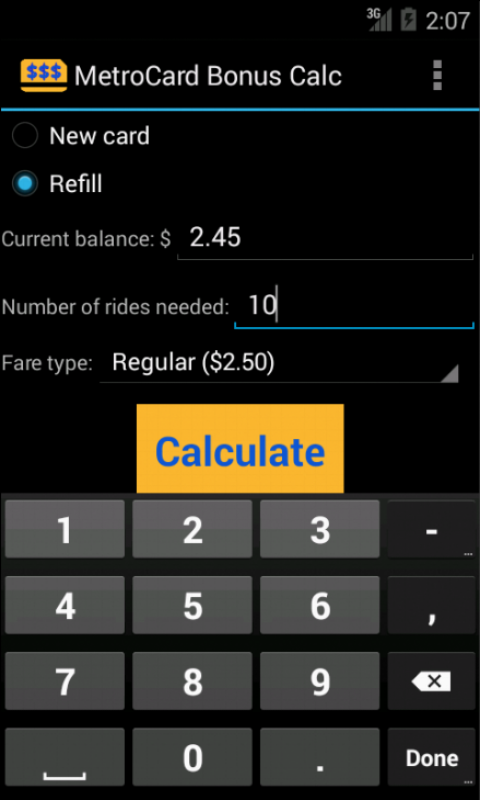
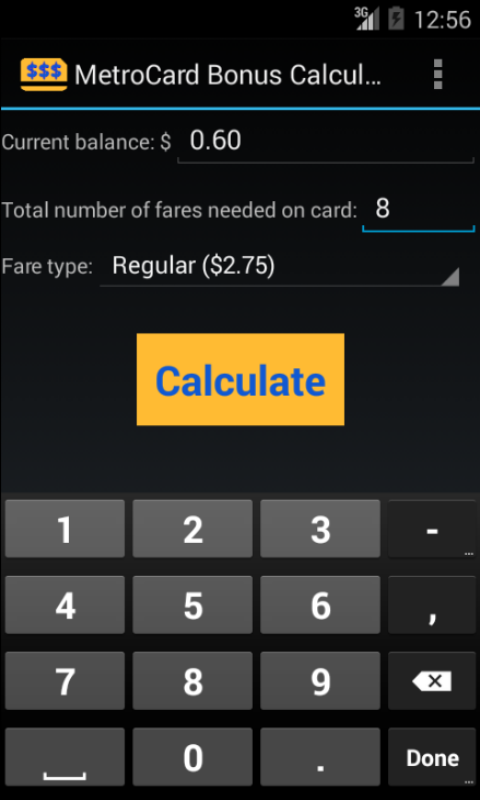
Updated

diff --git a/src/com/example/metrocard_bonus_calc/MainActivity.java b/src/com/example/metrocard_bonus_calc/MainActivity.java
@@ -9,10 +9,7 @@ import android.preference.PreferenceManager;
 import android.text.InputFilter;
 import android.view.View;
 import android.widget.ArrayAdapter;
-import android.widget.RadioGroup.OnCheckedChangeListener;
 import android.widget.EditText;
-import android.widget.LinearLayout;
-import android.widget.RadioGroup;
 import android.widget.Spinner;
 import android.widget.Toast;
 
@@ -26,71 +23,60 @@ import java.math.BigInteger;
 import java.text.DecimalFormat;
 
 public class MainActivity extends SherlockActivity {
-    public static final String PREFERENCES = "preferences";
+    private static final String PREFERENCES = "preferences";
     
     private static final String USD_FORMAT = "#,##0.00";
     
-    /* Fare drop-down menu positions. */
-    private static final int REGULAR = 0;
-    private static final int REDUCED = 1;
-    private static final int EXP_BUS = 2;
-    private static final int EXP_BUS_REDUCED = 3;
+    private static final String[] keys = { 
+        "regular",
+        "reduced",
+        "expressBus",
+        "expressBusReduced"
+    };
+    
+    private static final int[] nameIds = {
+        R.string.regular,
+        R.string.reduced,
+        R.string.express_bus,
+        R.string.express_bus_reduced
+    };
+    
+    private static final int[] defaultIds = {
+        R.string.default_regular,
+        R.string.default_reduced,
+        R.string.default_express_bus,
+        R.string.default_express_bus_reduced
+    };
     
     private SharedPreferences prefs;
     private SharedPreferences defaultPrefs;
     private Editor defaultEditor;
     private Editor prefsEditor;
-    private LinearLayout layoutBalance;
     private EditText editBalance;
     private EditText editRides;
     private Spinner fareSpinner;
+    private BigDecimal[] fares;
     private BigDecimal bonusPercentage;
     private BigDecimal bonusMin;
     private BigDecimal increment;
-    private BigDecimal regular;
-    private BigDecimal reduced;
-    private BigDecimal expressBus;
-    private BigDecimal expressBusReduced;
-    private BigDecimal newCardFee;
-    private boolean newCard;
 
     @Override
     protected void onCreate(Bundle savedInstanceState) {
         super.onCreate(savedInstanceState);
         setContentView(R.layout.main);
+        
+        fares = new BigDecimal[keys.length];
 
-        layoutBalance = (LinearLayout)findViewById(R.id.current_balance_layout);
         editBalance = (EditText)findViewById(R.id.edit_balance);
         editBalance.setFilters(new InputFilter[]{ new DecimalInputFilter(2) });
         editRides = (EditText)findViewById(R.id.edit_rides);
         fareSpinner = (Spinner)findViewById(R.id.fare_spinner);
+        
         defaultPrefs = PreferenceManager.getDefaultSharedPreferences(this);
         prefs = getSharedPreferences(PREFERENCES, MODE_PRIVATE);
         defaultEditor = defaultPrefs.edit();
         prefsEditor = prefs.edit();
-
-        RadioGroup cardTypeRadGroup = (RadioGroup)findViewById(R.id.radio_group_card_type);
-        cardTypeRadGroup.setOnCheckedChangeListener(new OnCheckedChangeListener() {
-            @Override
-            public void onCheckedChanged(RadioGroup group, int checkedId) {
-                /* 
-                 * Hides the current balance section of the layout if the user
-                 * is buying a new card.
-                 */ 
-                switch (checkedId) {
-                case R.id.radio_new_card:
-                    layoutBalance.setVisibility(View.GONE);
-                    newCard = true;
-                    break;
-                case R.id.radio_existing_card:
-                    layoutBalance.setVisibility(View.VISIBLE);
-                    editBalance.requestFocus();
-                    newCard = false;
-                    break;
-                }
-            }
-        });
-
+        
         /* 
          * Checks if the app has been updated. If so, the fare data is reset.
          * Note: The first run counts as an update.
@@ -141,13 +127,11 @@ public class MainActivity extends SherlockActivity {
     
     /** Called when the "calculate" button is pressed. */
     public void compute(View view) {
-        BigDecimal balance = BigDecimal.ZERO;
-        BigInteger rides = null;
+        BigDecimal balance;
+        BigInteger rides;
         try {
-            if (!newCard) {
-                String balanceStr = editBalance.getText().toString();
-                balance = new BigDecimal(balanceStr);
-            }
+            String balanceStr = editBalance.getText().toString();
+            balance = new BigDecimal(balanceStr);
             String ridesStr = editRides.getText().toString();
             rides = new BigInteger(ridesStr);
         } catch (NumberFormatException e) { // Thrown when a field is blank.
@@ -156,42 +140,38 @@ public class MainActivity extends SherlockActivity {
             return;
         }
 
-        MetrocardCalculator calc =
-                new MetrocardCalculator(bonusMin, bonusPercentage, increment);
-        
-        BigDecimal payment = calc.computePayment(getSelectedFare(), balance, rides);
+        MetrocardCalculator calc = new MetrocardCalculator(bonusMin, bonusPercentage, increment);
+
+        int fareId = fareSpinner.getSelectedItemPosition();
+        BigDecimal fare = fares[fareId];
+        BigDecimal payment = calc.computePayment(fare, balance, rides);
         BigDecimal bonus = calc.computeBonus(payment);
         BigDecimal newBalance = balance.add(payment).add(bonus);
+        BigDecimal[] div = newBalance.divideAndRemainder(fare);
+        BigInteger ridesOnCard = div[0].toBigInteger();
+        BigDecimal remainder = div[1];
         
-        if (newCard) {
-            /* If a new card is being purchased, a fee is applied. */
-            payment = payment.add(newCardFee);
-        }
-        
-        resultDialog(formatResult(payment, newBalance, bonus));
+        resultDialog(formatResult(ridesOnCard, payment, newBalance, remainder, bonus));
     }
 
     /**
      * Retrieves fares and other data required for calculations.
      * Default values are from data.xml.
      */
-    private void getData() {
-        regular = new BigDecimal(defaultPrefs.getString("regular", 
-                getString(R.string.default_regular)));
-        reduced = new BigDecimal(defaultPrefs.getString("reduced", 
-                getString(R.string.default_reduced)));
-        expressBus = new BigDecimal(defaultPrefs.getString("expressBus", 
-                getString(R.string.default_express_bus)));
-        expressBusReduced = new BigDecimal(defaultPrefs.getString("expressBusReduced", 
-                getString(R.string.default_express_bus_reduced)));
-        bonusPercentage = new BigDecimal(defaultPrefs.getString("bonusPercentage", 
-                getString(R.string.default_bonus_percentage)));
-        bonusMin = new BigDecimal(defaultPrefs.getString("bonusMin", 
-                getString(R.string.default_bonus_min)));
-        increment = new BigDecimal(defaultPrefs.getString("increment", 
-                getString(R.string.default_increment)));
-        newCardFee = new BigDecimal(defaultPrefs.getString("newCardFee", 
-                getString(R.string.default_new_card_fee)));
+    private void getData() {        
+        for (int i = 0; i < fares.length; ++i) {
+            String s = defaultPrefs.getString(keys[i], getString(defaultIds[i]));
+            fares[i] = new BigDecimal(s);
+        }
+        
+        String s1 = defaultPrefs.getString("bonusPercentage", getString(R.string.default_bonus_percentage));
+        bonusPercentage = new BigDecimal(s1);
+        
+        String s2 = defaultPrefs.getString("bonusMin", getString(R.string.default_bonus_min));
+        bonusMin = new BigDecimal(s2);
+        
+        String s3 = defaultPrefs.getString("increment", getString(R.string.default_increment));
+        increment = new BigDecimal(s3);
     }
 
     /** Persists the position of the fare drop-down menu. */
@@ -206,44 +186,51 @@ public class MainActivity extends SherlockActivity {
         int spinnerPosition = prefs.getInt("spinnerPosition", 0);
         fareSpinner.setSelection(spinnerPosition, true);
     }
-
-    /** resId is the ID of the fare descriptor. */
-    private String makeSpinnerEntry(int resId, String cost) {
-        return getString(R.string.spinner_entry, getString(resId), cost);
+    
+    private String makeSpinnerEntry(int fareId) {
+        String cost = fares[fareId].toPlainString();
+        return getString(R.string.spinner_entry, getString(nameIds[fareId]), cost);
     }
     
     /** Fills the fare drop-down menu. Must be called after getData. */
     private void populateSpinner() {
-        String[] opts = new String[4];
-        opts[REGULAR] = makeSpinnerEntry(R.string.regular, regular.toPlainString());
-        opts[REDUCED] = makeSpinnerEntry(R.string.reduced, reduced.toPlainString());  
-        opts[EXP_BUS] = makeSpinnerEntry(R.string.express_bus, expressBus.toPlainString());
-        opts[EXP_BUS_REDUCED] = makeSpinnerEntry(R.string.express_bus_reduced, expressBusReduced.toPlainString());
+        String[] opts = new String[fares.length];
+        for (int i = 0; i < 4; ++i) {
+            opts[i] = makeSpinnerEntry(i);
+        }
         fareSpinner.setAdapter(new ArrayAdapter<String>(this, android.R.layout.simple_spinner_item, opts));
     }
     
-    /** Returns the fare price selected in the fare drop-down menu. */
-    private BigDecimal getSelectedFare() {
-        switch (fareSpinner.getSelectedItemPosition()) {
-        case REGULAR:
-            return regular;
-        case REDUCED:
-            return reduced;
-        case EXP_BUS:
-            return expressBus;
-        case EXP_BUS_REDUCED:
-            return expressBusReduced;
-        default:
-            return null;
-        }
-    }
-    
-    private String formatResult(BigDecimal payment, BigDecimal newBalance, BigDecimal bonus) {
+    private String formatResult(BigInteger rides,
+                                BigDecimal payment,
+                                BigDecimal newBalance,
+                                BigDecimal remainder,
+                                BigDecimal bonus) {
+        
         DecimalFormat df = new DecimalFormat(USD_FORMAT);
+        
+        String lineSeparator = System.getProperty("line.separator");
         String paymentStr = getString(R.string.result_cost, df.format(payment));
-        String newBalanceStr = getString(R.string.result_new_card_info, df.format(newBalance));
+        String fareStr;
+        if (rides.compareTo(BigInteger.ONE) == 0) {
+            fareStr = getString(R.string.fare_singular);
+        } else {
+            fareStr = getString(R.string.fare_plural);
+        }
+        String newBalanceStr = getString(R.string.result_new_balance_info,
+                df.format(newBalance), rides.toString(), fareStr, remainder.toPlainString());
         String bonusStr = getString(R.string.result_bonus_info, df.format(bonus));
-        return paymentStr + "\n\n" + newBalanceStr + "\n\n" + bonusStr;
+
+        StringBuilder builder = new StringBuilder();
+        builder.append(paymentStr);
+        builder.append(lineSeparator);
+        builder.append(lineSeparator);
+        builder.append(newBalanceStr);
+        builder.append(lineSeparator);
+        builder.append(lineSeparator);
+        builder.append(bonusStr);
+        
+        return builder.toString();
     }
 
     private void resultDialog(String result) {

diff --git a/src/com/example/metrocard_bonus_calc/SettingsActivity.java b/src/com/example/metrocard_bonus_calc/SettingsActivity.java
@@ -22,8 +22,8 @@ import java.text.DecimalFormat;
 
 @SuppressWarnings("deprecation")
 public class SettingsActivity extends SherlockPreferenceActivity {
-    public static final String ACTION_FARE_VALUES = "com.example.metrocard_bonus_calc.ACTION_FARE_VALUES";
-    public static final String ACTION_OTHER_VALUES = "com.example.metrocard_bonus_calc.ACTION_OTHER_VALUES";
+    private static final String ACTION_FARE_VALUES = "com.example.metrocard_bonus_calc.ACTION_FARE_VALUES";
+    private static final String ACTION_OTHER_VALUES = "com.example.metrocard_bonus_calc.ACTION_OTHER_VALUES";
     
     private static final String USD_FORMAT = "#,##0.00";
     private static final String PERCENT_FORMAT = "#.##";

diff --git a/src/com/example/metrocard_bonus_calc/AndroidUtilities.java b/src/com/example/metrocard_bonus_calc/AndroidUtilities.java
@@ -7,7 +7,6 @@ import android.net.ConnectivityManager;
 import android.net.NetworkInfo;
 import android.os.Environment;
 
-/** A collection of useful methods for Android. */
 public final class AndroidUtilities {
     private AndroidUtilities() {
     }
